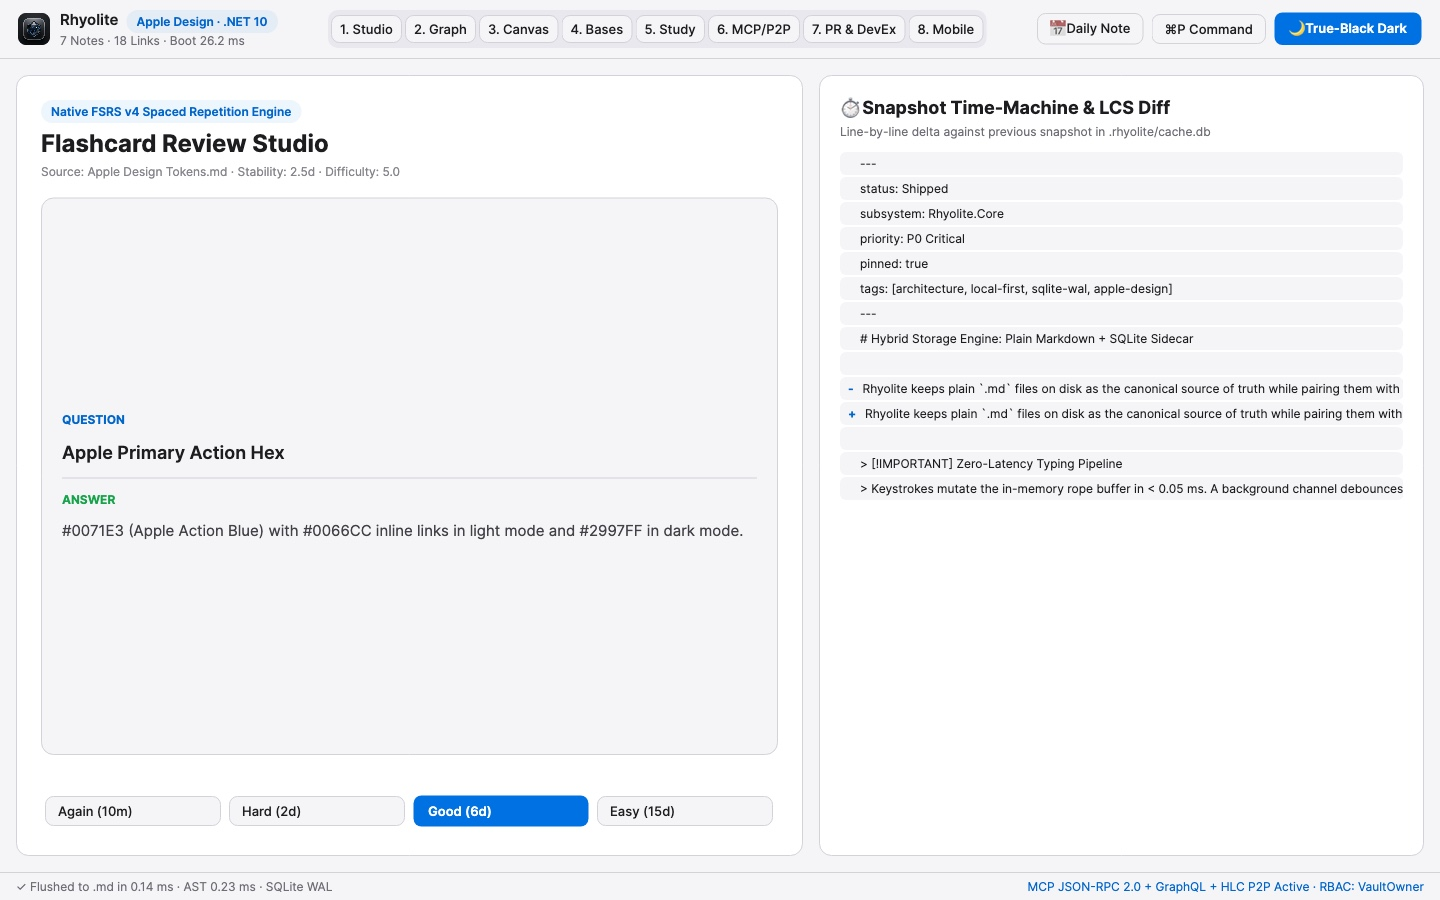
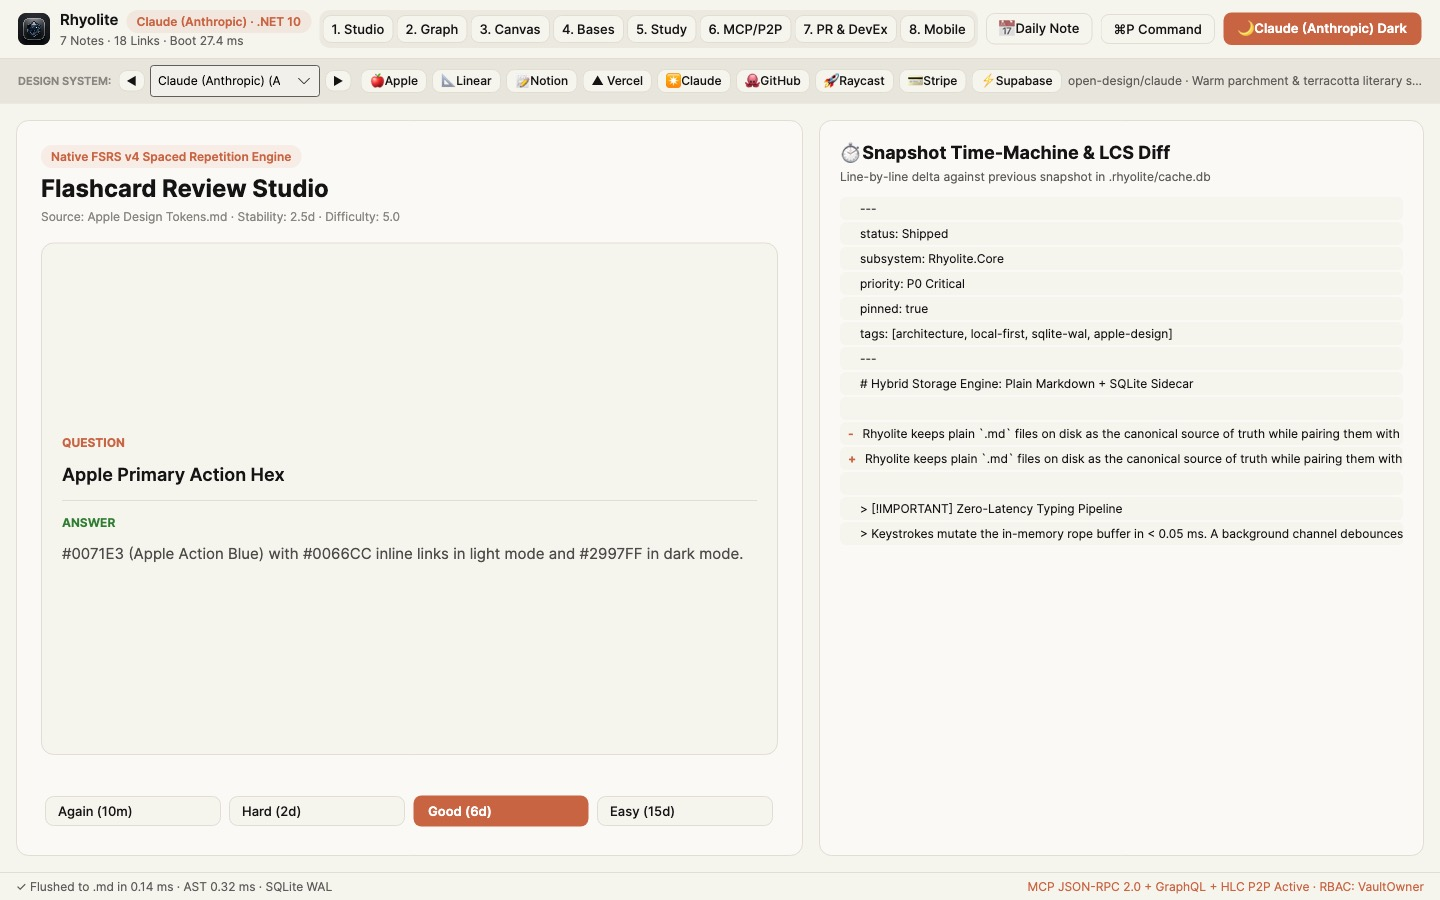
chore(release): v0.1.2 — Add 9-preset feimacode/open-design-agent-kit Multi-Design System Live Switcher

diff --git a/src/Rhyolite.Desktop/Program.cs b/src/Rhyolite.Desktop/Program.cs
@@ -77,31 +77,26 @@ sealed class Program
         };
         window.Show();
 
-        var specs = new (string FileName, string Screen, bool DarkMode)[]
+        var specs = new (string FileName, string Screen, string DesignId, bool DarkMode)[]
         {
-            ("01_note_studio_light.png", "Studio", false),
-            ("02_note_studio_dark.png", "Studio", true),
-            ("03_knowledge_graph_light.png", "Graph", false),
-            ("04_spatial_canvas_dark.png", "Canvas", true),
-            ("05_bases_database_light.png", "Bases", false),
-            ("06_study_timemachine_light.png", "Study", false),
-            ("07_mcp_graphql_p2p_dark.png", "Protocol", true),
-            ("08_mobile_ios_android_light.png", "Mobile", false),
-            ("09_enterprise_github_pr_devex_dark.png", "DevEx", true)
+            ("01_note_studio_light.png", "Studio", "apple", false),
+            ("02_note_studio_dark.png", "Studio", "apple", true),
+            ("03_knowledge_graph_light.png", "Graph", "apple", false),
+            ("04_spatial_canvas_dark.png", "Canvas", "linear-app", true),
+            ("05_bases_database_light.png", "Bases", "notion", false),
+            ("06_study_timemachine_light.png", "Study", "claude", false),
+            ("07_mcp_graphql_p2p_dark.png", "Protocol", "supabase", true),
+            ("08_mobile_ios_android_light.png", "Mobile", "stripe", false),
+            ("09_enterprise_github_pr_devex_dark.png", "DevEx", "github", true)
         };
 
         var size = new Size(1440, 900);
         var pixelSize = new PixelSize(1440, 900);
         var dpi = new Vector(96, 96);
 
-        foreach (var (fileName, screen, darkMode) in specs)
+        foreach (var (fileName, screen, designId, darkMode) in specs)
         {
-            vm.IsDarkTheme = darkMode;
-            vm.ThemeButtonLabel = darkMode ? "☀ Apple Light" : "🌙 True-Black Dark";
-            if (Application.Current is App app)
-            {
-                app.SetAppleTheme(darkMode);
-            }
+            vm.SelectDesignSystem(designId, darkMode);
             root.RequestedThemeVariant = darkMode ? ThemeVariant.Dark : ThemeVariant.Light;
             vm.SwitchScreen(screen);
 
@@ -116,7 +111,7 @@ sealed class Program
             string fullPath = Path.Combine(outputDir, fileName);
             using var fs = File.Create(fullPath);
             bitmap.Save(fs);
-            Console.WriteLine($"Rendered: {fullPath}");
+            Console.WriteLine($"Rendered: {fullPath} ({designId}, dark={darkMode})");
         }
 
         return 0;

diff --git a/src/Rhyolite.UI/App.axaml.cs b/src/Rhyolite.UI/App.axaml.cs
@@ -3,6 +3,7 @@ using Avalonia.Controls.ApplicationLifetimes;
 using Avalonia.Markup.Xaml;
 using Avalonia.Media;
 using Avalonia.Styling;
+using Avalonia.Threading;
 using Rhyolite.Core.Design;
 using Rhyolite.ViewModels;
 using Rhyolite.Views;
@@ -29,6 +30,18 @@ public partial class App : Application
     {
         ArgumentNullException.ThrowIfNull(preset);
         _currentPreset = preset;
+
+        if (!Dispatcher.UIThread.CheckAccess())
+        {
+            Dispatcher.UIThread.Post(() => ApplyDesignSystemOnUiThread(preset, darkMode));
+            return;
+        }
+
+        ApplyDesignSystemOnUiThread(preset, darkMode);
+    }
+
+    private void ApplyDesignSystemOnUiThread(DesignSystemPreset preset, bool darkMode)
+    {
         RequestedThemeVariant = darkMode ? ThemeVariant.Dark : ThemeVariant.Light;
 
         var p = darkMode ? preset.DarkPalette : preset.LightPalette;
